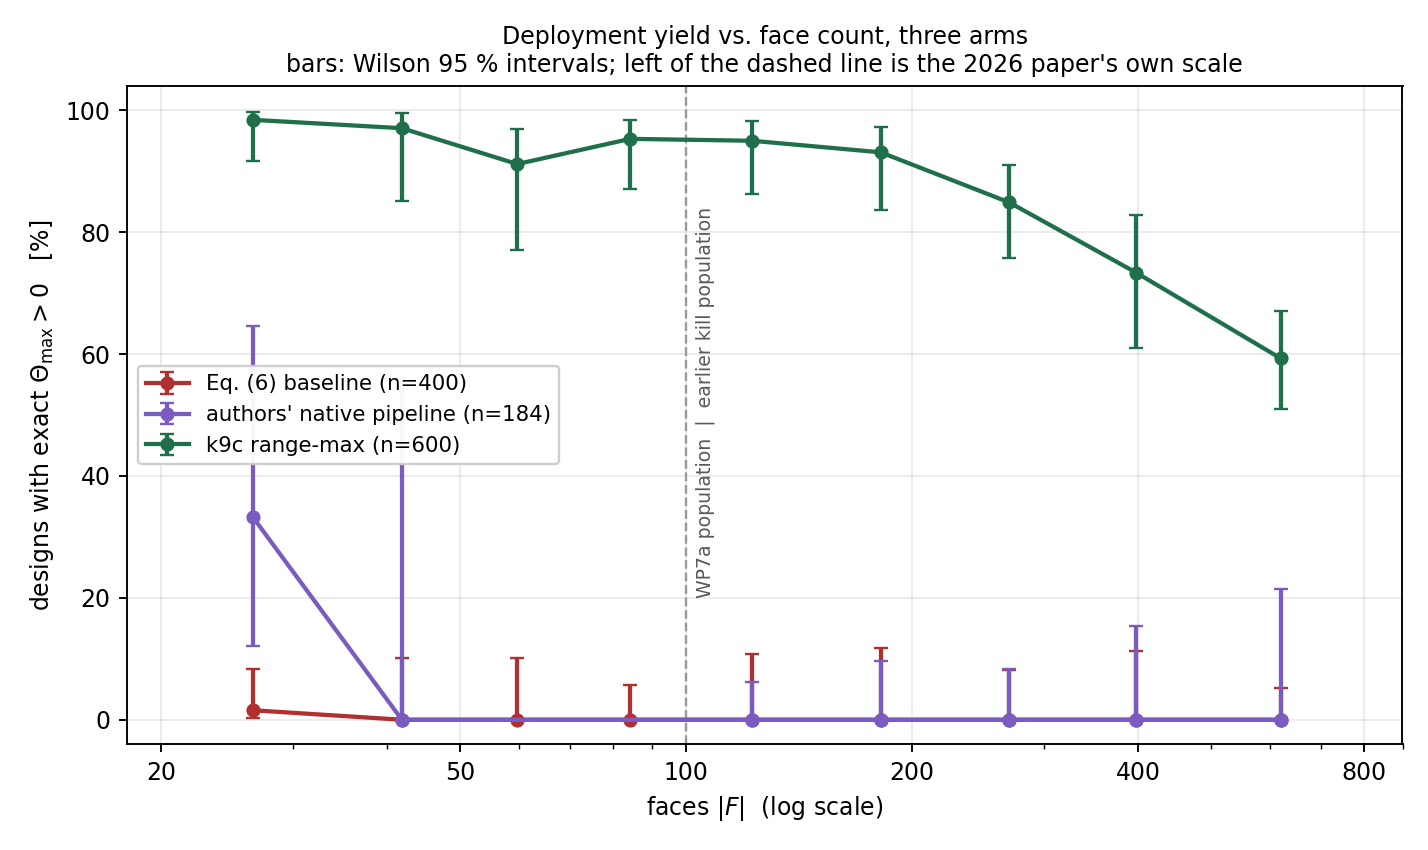
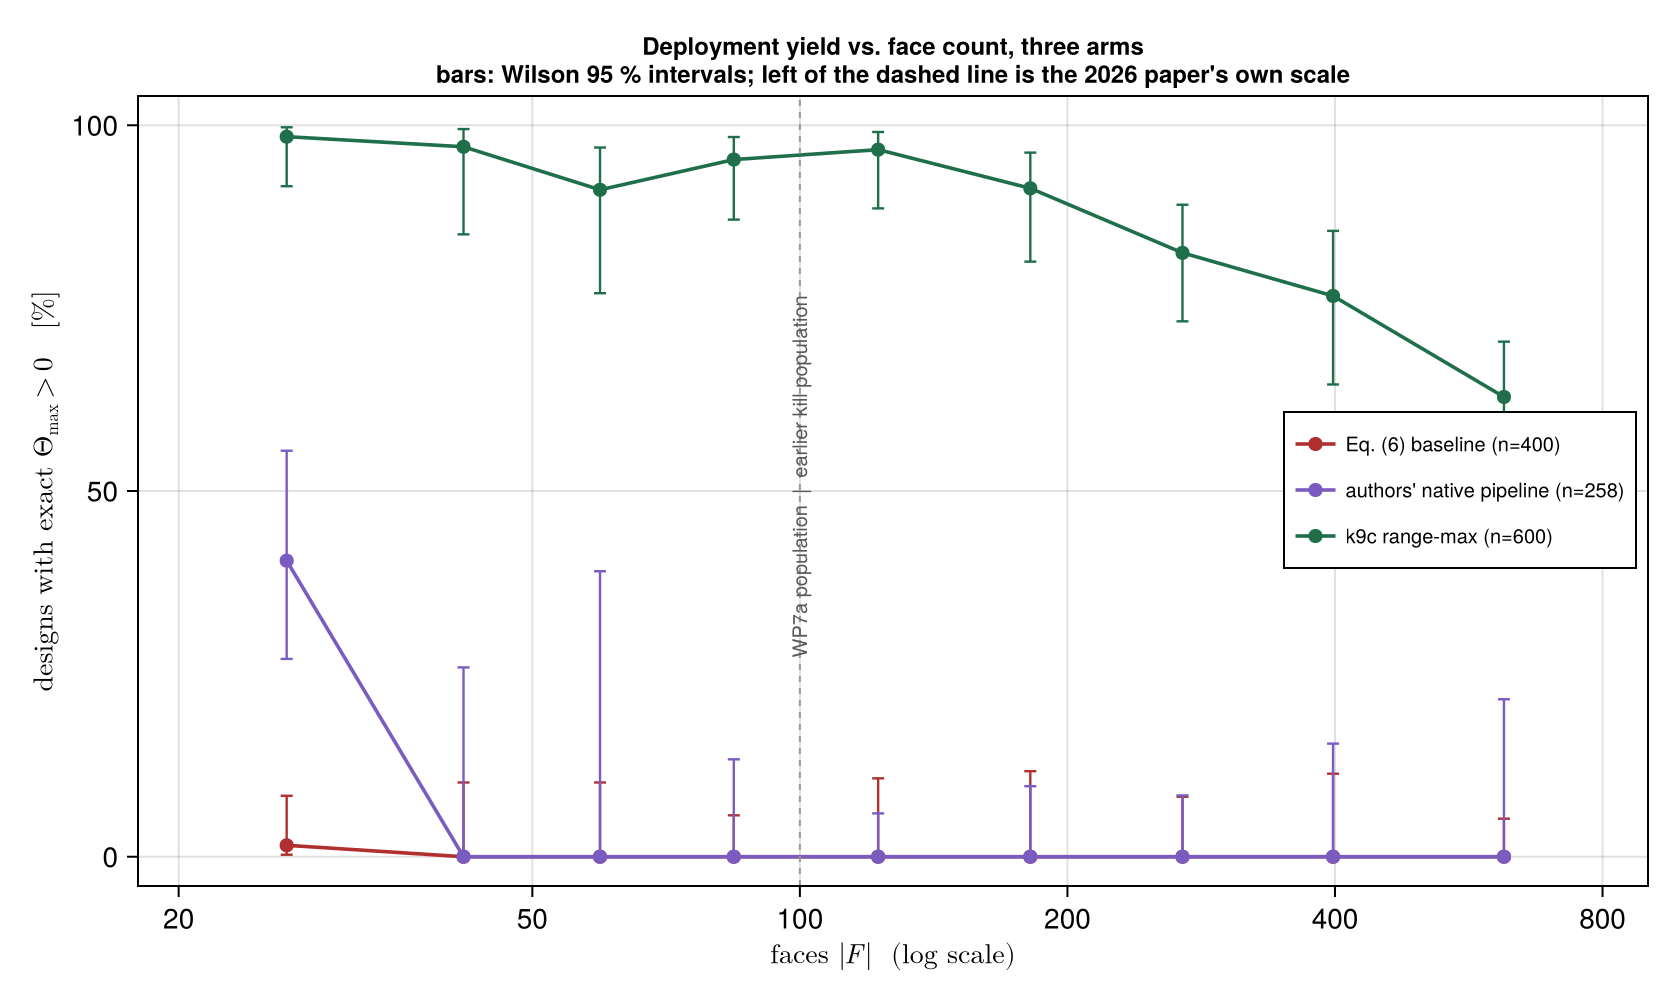
Archive regime-experiment results

diff --git a/results/regime/REGIME.md b/results/regime/REGIME.md
@@ -1,9 +1,61 @@
 # WP7a — the paper-regime population
 
-**Status: IN PROGRESS.** The constructive arms and the pattern import are complete; the
-native pass is still running and every native number below is marked with its coverage.
-Everything here is a function of `results/regime/regime.csv`, via
-`results/regime/summary.txt`, which `julia --project=Kirigami Kirigami/apps/kill_regime.jl --mode aggregate` derives from
-that CSV and from nothing held in memory.
+**Status: COMPLETE.** Everything here is a function of `results/regime/regime.csv` (213
+design rows), via `results/regime/summary.txt`, which
+`julia --project=Kirigami Kirigami/apps/kill_regime.jl --mode aggregate --out results/regime`
+derives from that CSV and from nothing held in memory. The native cells are the authors'
+unchanged binary (`baseline/native/`), run with a 600 s cap per cell.
 
-*(skeleton — filled in as the passes complete)*
+## What was run
+
+Three sets, each under the Eq. (6) baseline (`design_baseline`) and the K9c range-maximising
+embedding (`design_range_max`), plus the authors' full native pipeline where it could be
+dispatched (their own colouring, and our σ handed to their pipeline):
+
+- **pop** — 100 random graphs, `make_graph(id, 20, 100, 1400)`, ids 2000–2099, so that |F|
+  sits in the paper's own regime: min 24, median 52, max 100 (Delaunay 33 graphs, median 32;
+  quad-random 34, median 84; Voronoi 33, median 48). Both orientation rules: 200 designs.
+- **ref** — the 8 authored reference tilings with their given σ.
+- **pat2025** — the 5 fabrication SVGs of the 2025 paper that load as polygon soups
+  (`patterns_load.csv`: 16 further files are line-group specs with no geometry).
+
+## Measured — `results/regime/summary.txt`
+
+Random population (200 designs), deployable = exact `Θ_max > 0`, refereed by the `1e-9`
+bisection:
+
+| arm | N | deployable | refereed | certified (`ε_max > 0`) | `ε_max ≥ 0.1` rad | median `ε_max` | max |
+|---|--:|--:|--:|--:|--:|--:|--:|
+| Eq. (6) baseline | 200 | 1 | 1 | 1 | 1 | 0.560 | 0.560 |
+| native pipeline, their colouring | 52 dispatched | 12 | 12 | 12 | 12 | 0.290 | 1.109 |
+| native pipeline, our σ | 45 dispatched | 5 | 5 | 4 | 4 | 0.213 | 0.646 |
+| **K9c range-max** | 200 | **192** | **192** | **192** | **178** | **0.858** | π |
+
+Yield against |F| with Wilson 95 % intervals: in [20, 50) the baseline gives 1/98 (1.0 %),
+the native pipeline 12/30 (40.0 %, [24.6, 57.7] %) with their colouring and 5/27 (18.5 %)
+with ours, K9c 96/98 (98.0 %, [92.9, 99.4] %); in [50, 100] the baseline 0/102, the native
+pipeline 0/22 and 0/18, K9c 96/102 (94.1 %, [87.8, 97.3] %).
+
+Native coverage: of the 97 native cells dispatched on the random population, 86 completed and
+11 timed out at 600 s (`native cell status` table in `summary.txt`); the pattern and
+reference sets were not dispatched to the native pipeline. Every native positive is a graph
+of 27–31 faces (28–31 with their colouring, 27–29 with our σ).
+
+Reference tilings: all 8 deploy and certify `ε_max ≥ 0.1` rad under both arms; 5 of them
+reach `Θ_max = π` under both (the three arms are identical points there), the other three
+open to 2.09, 2.36 and 1.65 rad under the baseline, and K9c lifts snub_square_33434 from
+1.65 rad to π and tiling_3_4_3_12 from 2.38 to 2.62 rad. The 5 imported 2025
+patterns have an exact `Θ_max` of 2.89–3.14 rad under both arms (identical points: the
+range optimiser accepts the projection as is), but a certified `ε_max` of at most 0.067 rad,
+because the imported fabrication geometry carries near-grazing contacts that the certificate
+counts as roots.
+
+## Reading
+
+In the paper's own regime (|F| ≤ 100) the picture is the K9 population's, shifted up: the
+published projection deploys 1 of 200 random designs, the authors' full pipeline 12 of the 52
+designs it was dispatched on with their colouring (48 completed, 4 timed out; every positive
+has 28–31 faces), and the range
+objective 192 of 200 with a median certified opening of 0.86 rad. The K9c endpoints are
+optimiser-path dependent (`results/kill/KILL_REPORT.md` §K9c); the baseline and native
+columns are not. Figure: `results/regime/fig_regime.png`.
